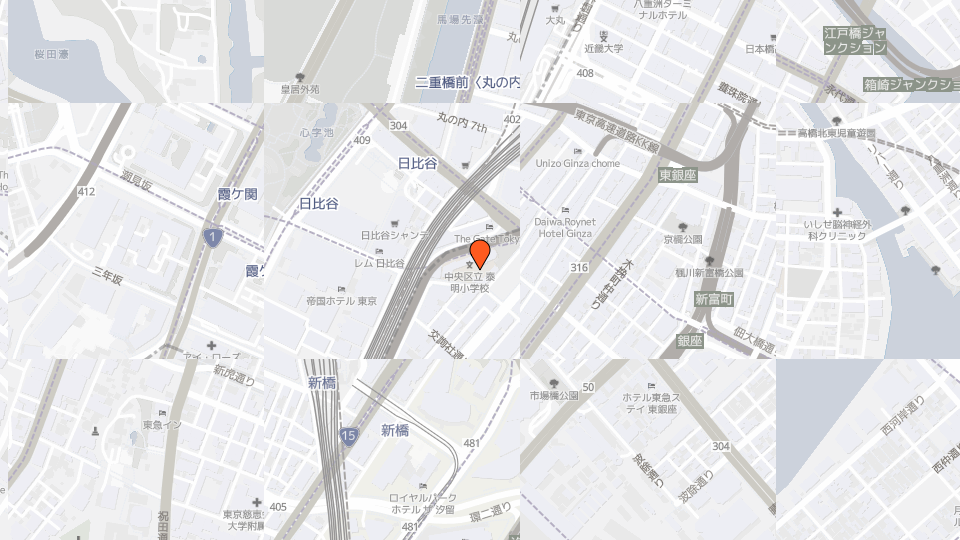
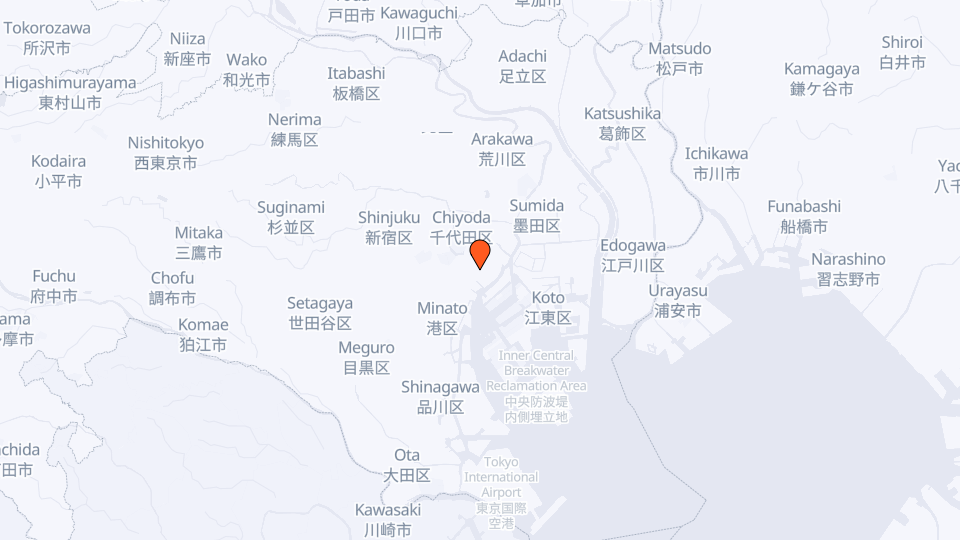
s3 tiles working

diff --git a/maptiler_test.go b/maptiler_test.go
@@ -16,14 +16,14 @@ func TestMapTiler(t *testing.T) {
 	latitude := 35.6693042057878
 	longitude := 139.7663559789293
 
-	provider := sm.NewTileProviderMapTiler()
+	//provider := sm.NewTileProviderMapTiler()
 	//provider := sm.NewTileProviderWikimedia()
-	cache := sm.NewTileCache(os.Getenv("MAP_TILE_CACHE"), 0777)
+	provider := sm.NewTileProviderJourney()
 
 	ctx := sm.NewContext()
 	ctx.SetTileProvider(provider)
 	ctx.SetSize(960, 540)
-	ctx.SetCache(cache)
+	ctx.SetCountry("JP")
 
 	orange := color.RGBA{0xff, 0x5a, 0x1f, 0xff}
 	marker := sm.NewMarker(s2.LatLngFromDegrees(latitude, longitude), orange, 20.0)
@@ -35,6 +35,37 @@ func TestMapTiler(t *testing.T) {
 	}
 
 	f, err := os.Create("example.png")
+	if err != nil {
+		t.Fatal(err)
+	}
+	png.Encode(f, img)
+}
+
+// don't use japan higher zoom level tiles
+func TestWorldZoomLevel(t *testing.T) {
+
+	latitude := 35.6693042057878
+	longitude := 139.7663559789293
+
+	//provider := sm.NewTileProviderMapTiler()
+	//provider := sm.NewTileProviderWikimedia()
+	provider := sm.NewTileProviderJourney()
+
+	ctx := sm.NewContext()
+	ctx.SetTileProvider(provider)
+	ctx.SetSize(960, 540)
+	ctx.SetCountry("")
+
+	orange := color.RGBA{0xff, 0x5a, 0x1f, 0xff}
+	marker := sm.NewMarker(s2.LatLngFromDegrees(latitude, longitude), orange, 20.0)
+	ctx.AddMarker(marker)
+
+	img, err := ctx.Render()
+	if err != nil {
+		t.Fatal(err)
+	}
+
+	f, err := os.Create("less-zoom-example.png")
 	if err != nil {
 		t.Fatal(err)
 	}

diff --git a/tile_provider.go b/tile_provider.go
@@ -21,6 +21,7 @@ type TileProvider struct {
 }
 
 func (t *TileProvider) getURL(shard string, zoom, x, y int) string {
+	fmt.Print(t.URLPattern, shard, zoom, x, y)
 	return fmt.Sprintf(t.URLPattern, shard, zoom, x, y)
 }
 
@@ -121,7 +122,7 @@ func NewTileProviderJourney() *TileProvider {
 	t.Name = "journey"
 	t.Attribution = ""
 	t.TileSize = 256
-	t.URLPattern = "https://s3.console.aws.amazon.com/s3/object/map-tiles-journey?region=us-west-1&prefix=tiles/%[2]d/%[3]d/%[4]d.png"
+	t.URLPattern = "https://map-tiles-journey.s3.us-west-1.amazonaws.com/%[2]d/%[3]d/%[4]d.png"
 	t.Shards = []string{}
 	return t
 }

diff --git a/tile_fetcher.go b/tile_fetcher.go
@@ -82,7 +82,7 @@ func (t *TileFetcher) Fetch(zoom, x, y int) (image.Image, error) {
 
 	img, _, err := image.Decode(bytes.NewBuffer(data))
 	if err != nil {
-		return nil, err
+		return nil, fmt.Errorf("Failed to decode image file from provider: %w", err)
 	}
 
 	if t.cache != nil {
@@ -119,7 +119,7 @@ func (t *TileFetcher) download(url string) ([]byte, error) {
 
 	contents, err := ioutil.ReadAll(resp.Body)
 	if err != nil {
-		return nil, err
+		return nil, fmt.Errorf("Failed to parse response body from provider: %w", err)
 	}
 
 	return contents, nil
